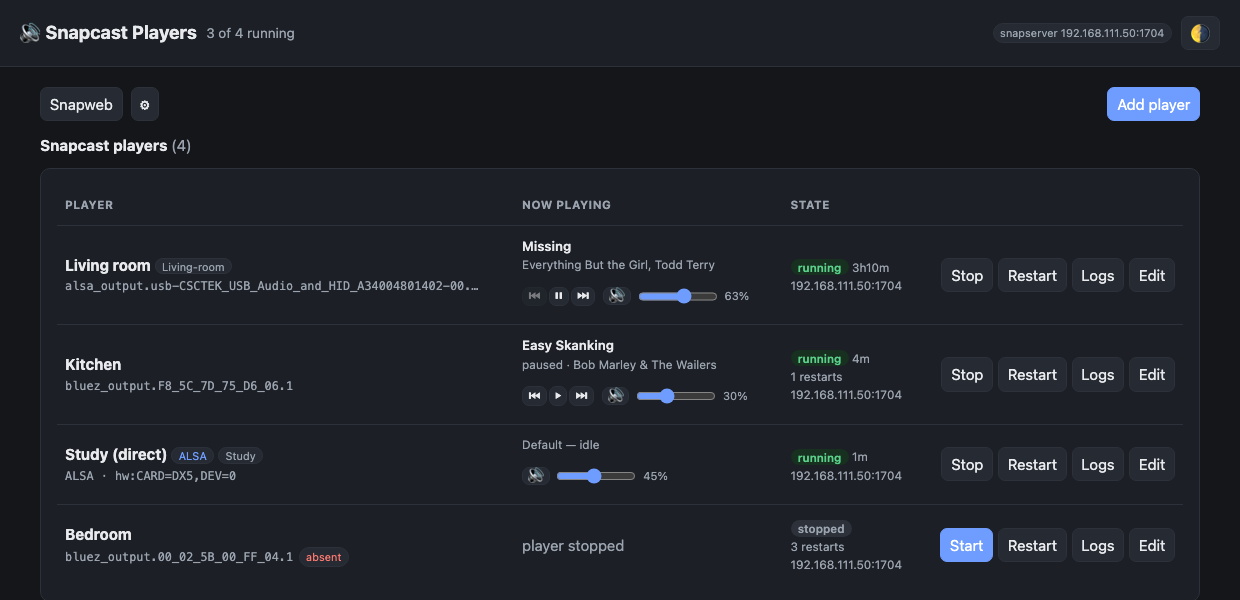
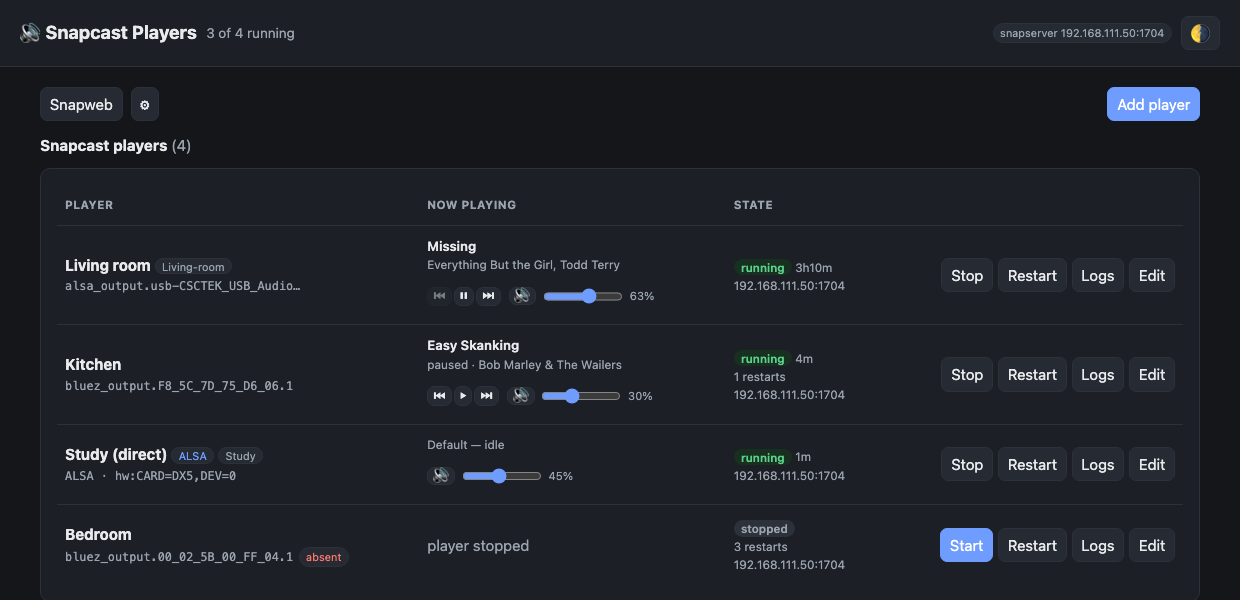
Panel: trim the output column, full value on hover
A PipeWire node name ran the width of its column and pushed everything
else along. It is capped at 15rem now, and the now-playing text at 16rem
so it cannot crowd the transport buttons. Both already carried the full
string in title=, which is what hovering shows -- a test pins that down,
since a truncated value with no tooltip is just lost.

Screenshots refreshed.

diff --git a/panel/static/index.html b/panel/static/index.html
@@ -100,7 +100,7 @@
      do nothing on an inline element, so as a <span> it wrapped onto three lines
      instead of truncating. */
   .sink {
-    display: block; min-width: 0; max-width: 26rem;
+    display: block; min-width: 0; max-width: 15rem;
     font-family: ui-monospace, SFMono-Regular, Menlo, monospace; font-size: .74rem;
     color: var(--muted);
     white-space: nowrap; overflow: hidden; text-overflow: ellipsis;
@@ -157,7 +157,7 @@
     width: 30px; height: 30px; border-radius: 5px; object-fit: cover;
     flex: 0 0 auto; background: var(--line);
   }
-  .np-text { min-width: 0; flex: 1 1 auto; }
+  .np-text { min-width: 0; flex: 1 1 auto; max-width: 16rem; }
   .np-title { font-size: .82rem; font-weight: 600; white-space: nowrap; overflow: hidden; text-overflow: ellipsis; }
   .np-artist { font-size: .74rem; color: var(--muted); white-space: nowrap; overflow: hidden; text-overflow: ellipsis; }
   /* One tidy strip: skip/volume together on a single line under the text.

diff --git a/tests/test_api.py b/tests/test_api.py
@@ -480,3 +480,11 @@ def test_an_alsa_player_rejects_a_bad_device(client):
     res = create(client, output_mode="alsa", alsa_device="not a device", node="")
     assert res.status_code == 400
     assert "alsa" in res.get_json()["error"].lower()
+
+
+def test_truncated_values_stay_readable_on_hover():
+    """The output column is deliberately short, so the full node name has to be
+    on the element's title -- otherwise it is simply lost."""
+    page = open(INDEX).read()
+    for cls in ("sink", "np-title", "np-artist"):
+        assert 'class="%s" title=' % cls in page, cls
